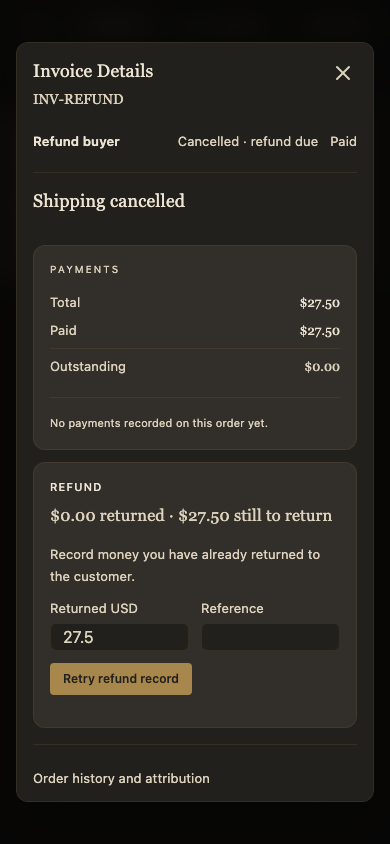
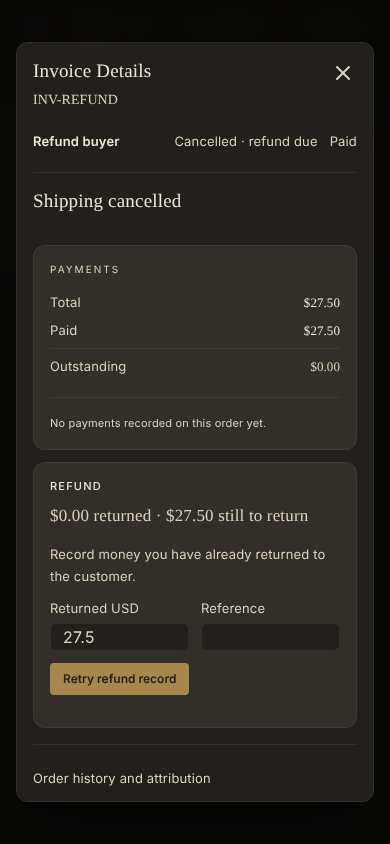
A send record that is not a record reads as unreadable, never crashes the order screen
The admin-behavior harness answers every API call with [], which the panel read as a record.

Claude-Session: https://claude.ai/code/session_017kitFgNqoBAQKDAx3QgQ7a

diff --git a/src/admin/components/SendRecordPanel.tsx b/src/admin/components/SendRecordPanel.tsx
@@ -24,7 +24,8 @@ export const SendRecordPanel: React.FC<{ kind: 'invoice' | 'collection'; id: str
     staleTime: 30_000,
   });
   if (isLoading) return <p className={`text-ui-12 text-tea-text-sec ${className}`}>Reading what happened to it…</p>;
-  if (isError || !data) return <p className={`text-ui-12 text-tea-text-sec ${className}`}>What happened to it could not be read just now.</p>;
+  // Anything but a record (an error page, an empty answer) reads as unreadable, never as a crash of the screen around it.
+  if (isError || !data || !Array.isArray(data.teas) || !data.opens) return <p className={`text-ui-12 text-tea-text-sec ${className}`}>What happened to it could not be read just now.</p>;
   return <SendRecordBody record={data} className={className} />;
 };
 

diff --git a/src/admin/views/SentView.tsx b/src/admin/views/SentView.tsx
@@ -51,7 +51,7 @@ const SentView: React.FC = () => {
     queryFn: () => sendsApi.list({ kind: kind === 'invoice' || kind === 'collection' ? kind : undefined, q: q || undefined, limit: 200 }),
     staleTime: 30_000,
   });
-  const sends = data?.sends ?? [];
+  const sends = Array.isArray(data?.sends) ? data.sends : [];
   return (
     <div className="max-w-3xl mx-auto px-4 md:px-6 py-6 space-y-4">
       <h1 className={T.h1}>Everything sent</h1>
